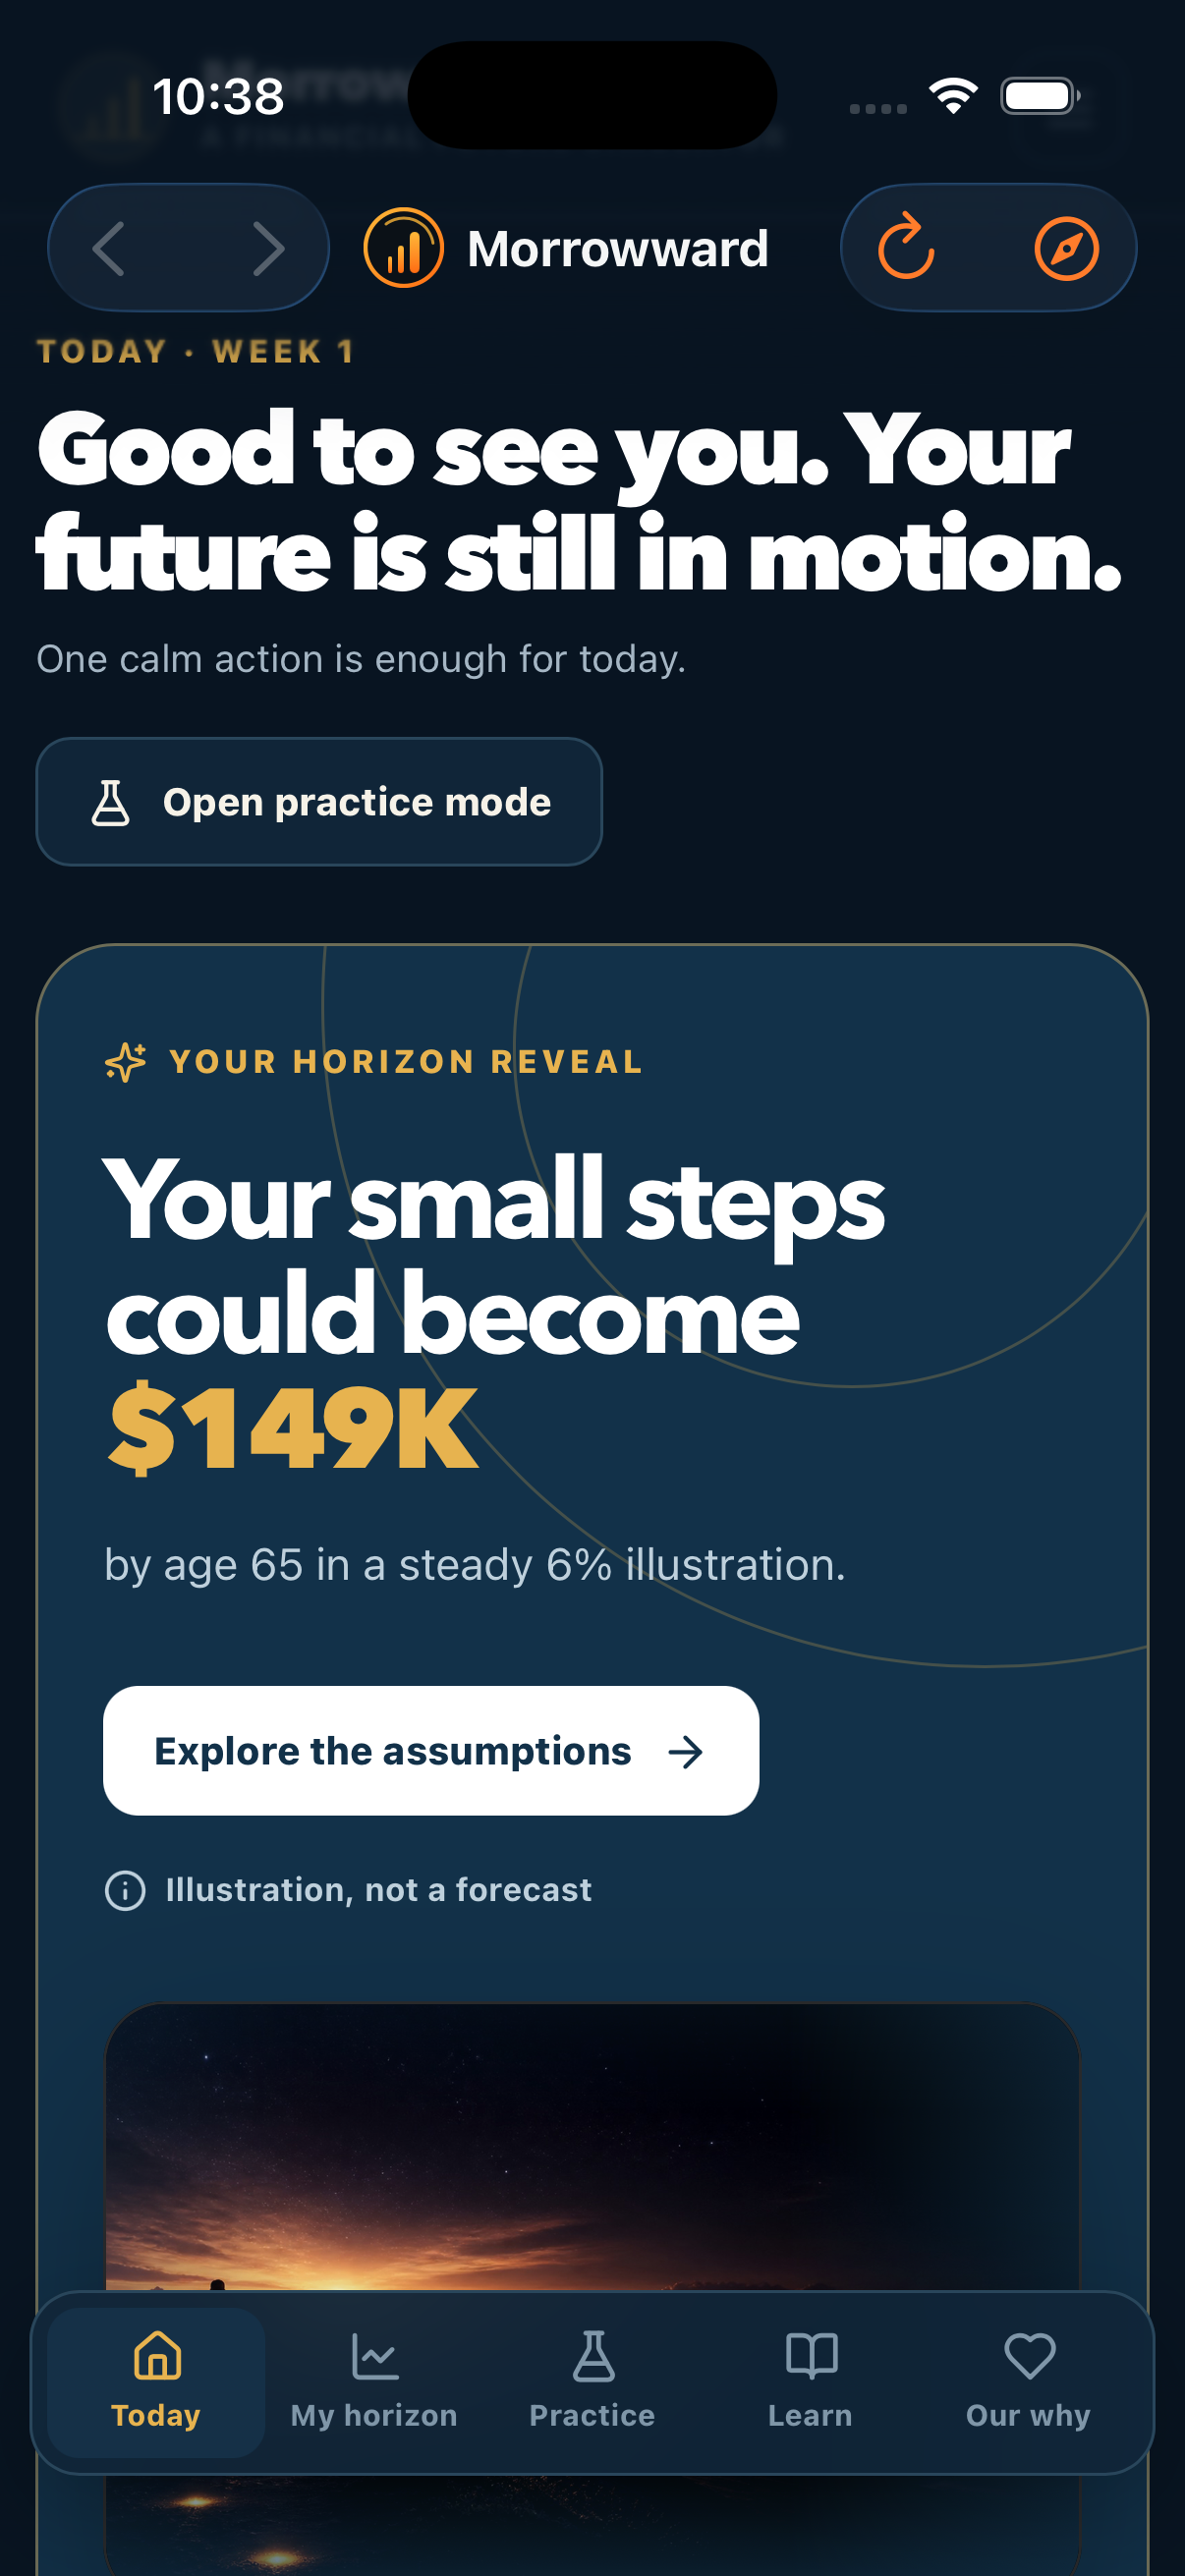
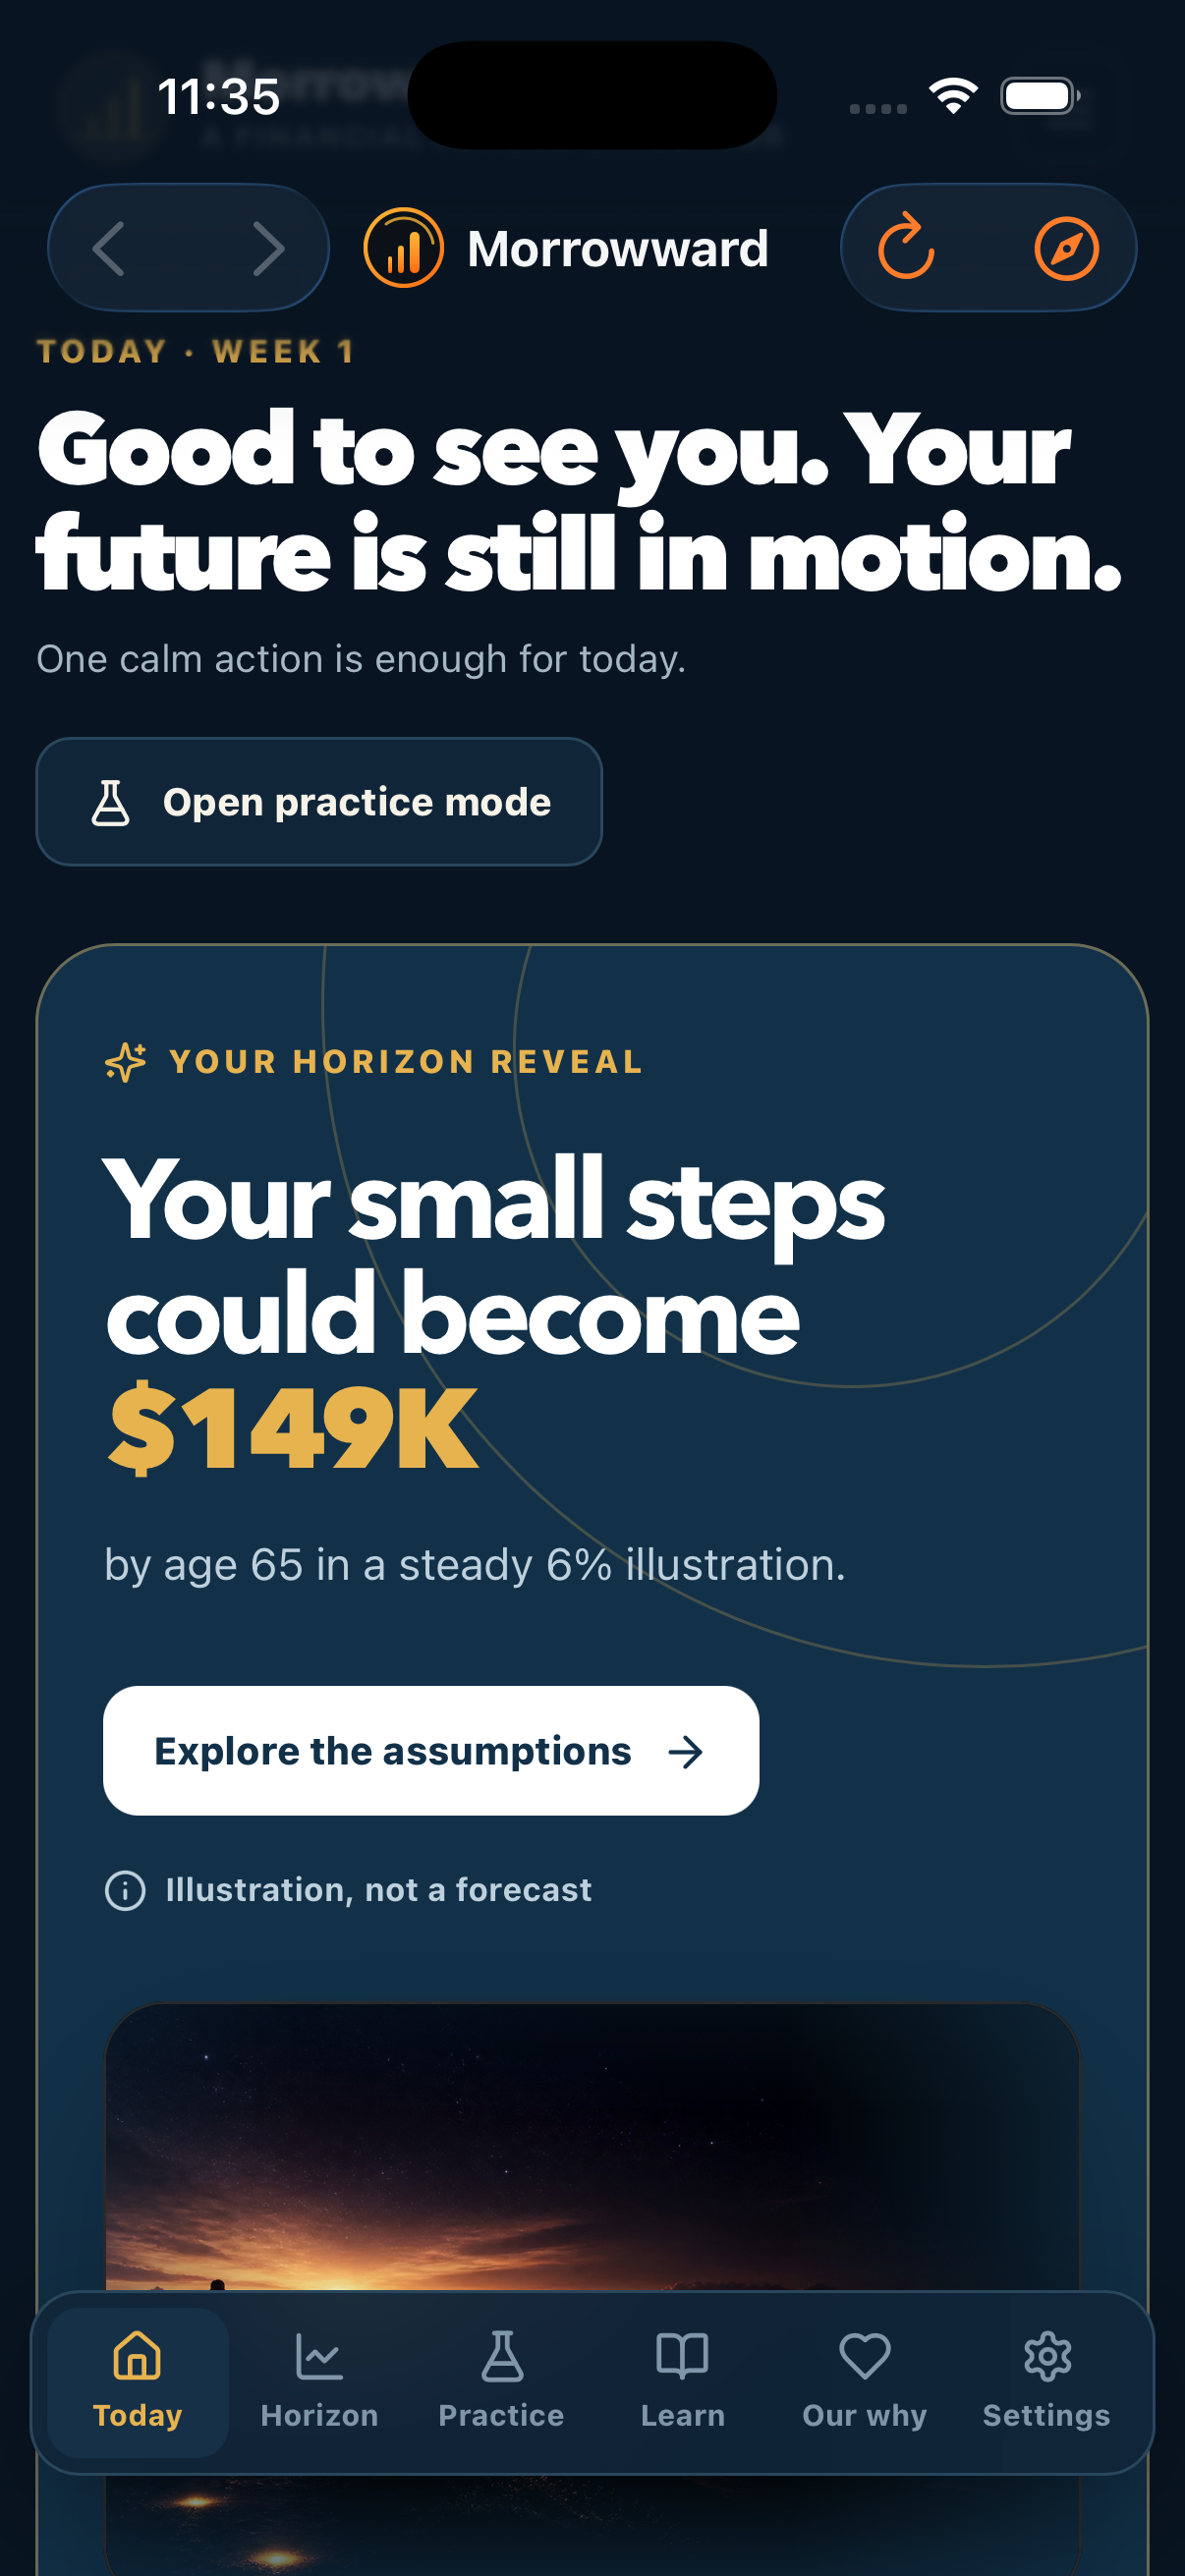
fix: polish companion access and privacy gate

diff --git a/apple/Apps/Mac/MorrowwardMacApp.swift b/apple/Apps/Mac/MorrowwardMacApp.swift
@@ -1,3 +1,4 @@
+import AppKit
 import SwiftUI
 
 @main
@@ -8,5 +9,41 @@ struct MorrowwardMacApp: App {
         }
         .defaultSize(width: 1320, height: 900)
         .windowResizability(.contentMinSize)
+        .commands {
+            CommandGroup(replacing: .appInfo) {
+                Button("About Morrowward") {
+                    showMorrowwardAboutPanel()
+                }
+            }
+        }
     }
+}
+
+@MainActor
+private func showMorrowwardAboutPanel() {
+    let paragraphStyle = NSMutableParagraphStyle()
+    paragraphStyle.alignment = .center
+
+    let mission = NSMutableAttributedString(
+        string: "Helping you move toward financial freedom through daily discipline and financial education.\n\n",
+        attributes: [
+            .font: NSFont.systemFont(ofSize: NSFont.systemFontSize),
+            .foregroundColor: NSColor.labelColor,
+            .paragraphStyle: paragraphStyle,
+        ]
+    )
+    mission.append(
+        NSAttributedString(
+            string: "Follow Dave online",
+            attributes: [
+                .font: NSFont.systemFont(ofSize: NSFont.systemFontSize, weight: .semibold),
+                .foregroundColor: NSColor.linkColor,
+                .link: URL(string: "https://thedavedev.com/")!,
+                .paragraphStyle: paragraphStyle,
+                .underlineStyle: NSUnderlineStyle.single.rawValue,
+            ]
+        )
+    )
+
+    NSApplication.shared.orderFrontStandardAboutPanel(options: [.credits: mission])
 }

diff --git a/tests/e2e/morrowward.spec.ts b/tests/e2e/morrowward.spec.ts
@@ -42,11 +42,7 @@ async function openSettings(page: Page) {
     await desktop.click();
     return;
   }
-  await page.getByRole("button", { name: "Open menu" }).click();
-  await page
-    .getByRole("navigation", { name: "Mobile menu" })
-    .getByRole("button", { name: /Settings/i })
-    .click();
+  await page.getByTestId("mobile-nav-settings").click();
 }
 
 async function onboard(

diff --git a/app/components/MorrowwardApp.tsx b/app/components/MorrowwardApp.tsx
@@ -2211,7 +2211,8 @@ function AppFooter({ onNavigate }: { onNavigate: (view: View) => void }) {
 function MobileNav({ active, onNavigate }: { active: View; onNavigate: (view: View) => void }) {
   return (
     <nav className="bottom-nav" aria-label="Mobile primary navigation">
-      {NAV_ITEMS.map((item) => { const Icon = item.icon; return <button data-testid={`mobile-nav-${item.id}`} key={item.id} type="button" className={active === item.id ? "active" : ""} onClick={() => onNavigate(item.id)} aria-current={active === item.id ? "page" : undefined}><Icon size={19} aria-hidden="true" /><span>{item.label}</span></button>; })}
+      {NAV_ITEMS.map((item) => { const Icon = item.icon; const label = item.id === "plan" ? "Horizon" : item.label; return <button data-testid={`mobile-nav-${item.id}`} key={item.id} type="button" className={active === item.id ? "active" : ""} onClick={() => onNavigate(item.id)} aria-current={active === item.id ? "page" : undefined}><Icon size={19} aria-hidden="true" /><span>{label}</span></button>; })}
+      <button data-testid="mobile-nav-settings" type="button" className={active === "settings" ? "active" : ""} onClick={() => onNavigate("settings")} aria-current={active === "settings" ? "page" : undefined}><Settings size={19} aria-hidden="true" /><span>Settings</span></button>
     </nav>
   );
 }

diff --git a/app/globals.css b/app/globals.css
@@ -1159,7 +1159,7 @@ textarea:focus-visible,
   .privacy-panel ul { grid-column: 2; }
   .app-footer { grid-template-columns: 1fr; padding-bottom: 105px; }
   .app-footer nav { grid-column: auto; }
-  .bottom-nav { position: fixed; z-index: 60; left: 10px; right: 10px; bottom: max(9px, env(safe-area-inset-bottom)); display: grid; grid-template-columns: repeat(5, 1fr); border: 1px solid var(--line); border-radius: 17px; padding: 5px; background: color-mix(in srgb, var(--surface) 94%, transparent); box-shadow: 0 12px 40px color-mix(in srgb, #000 30%, transparent); backdrop-filter: blur(18px); }
+  .bottom-nav { position: fixed; z-index: 60; left: 10px; right: 10px; bottom: max(9px, env(safe-area-inset-bottom)); display: grid; grid-template-columns: repeat(6, minmax(0, 1fr)); border: 1px solid var(--line); border-radius: 17px; padding: 5px; background: color-mix(in srgb, var(--surface) 94%, transparent); box-shadow: 0 12px 40px color-mix(in srgb, #000 30%, transparent); backdrop-filter: blur(18px); }
   .bottom-nav button { display: grid; justify-items: center; gap: 3px; border-radius: 11px; padding: 7px 3px; color: var(--faint); font-size: 10px; font-weight: 750; }
   .bottom-nav button.active { background: var(--surface-raised); color: var(--accent); }
 }

diff --git a/docs/BUILD_JOURNAL.md b/docs/BUILD_JOURNAL.md
@@ -381,6 +381,22 @@ The signoff marks **final feature development complete on July 17**. Codex then 
 
 That four-day arc is also the clearest summary of the human–agent loop captured by this journal. Dave supplied the mission, decades of investor lessons, taste, and final discernment; Codex delegated and implemented the architecture, safety boundaries, tests, content pipelines, deployment, and Apple portability; each real-product review became the next concrete refinement. The result is not merely “AI generated an app quickly.” It is inspectable evidence that sustained human judgment and agent execution can move from a deeply personal idea to a finished, accepted product in four days.
 
+### Hands-on companion use found one submission-blocking navigation defect
+
+Dave's first direct iPhone Simulator session found a real container-specific problem after feature-complete signoff: the companion's native navigation chrome could cover the responsive website header, making the hamburger route to Settings impractical. The Mac companion did not share the defect because its top Settings control remained visible.
+
+The fix stayed in the shared product instead of adding iPhone-only financial logic. Morrowward's fixed mobile footer now has a sixth, always-visible **Settings** destination with a gear icon; the adjacent plan label is shortened to **Horizon** at that width so all six destinations remain readable. Desktop navigation and the Mac experience are unchanged. The Playwright Settings helper now exercises the same footer route a mobile user takes, and the focused Pixel 7 golden path passed after switching the theme from the new destination. ESLint and the production web build also remained clean.
+
+Dave's Mac review produced a separate, platform-appropriate polish request rather than another navigation fix. The standard **About Morrowward** panel now keeps the app icon, name, and version while adding the concise mission line **Helping you move toward financial freedom through daily discipline and financial education.** and a clickable **Follow Dave online** link to `https://thedavedev.com/`. The ad-hoc signed universal Release build compiled successfully with Swift 6 strict concurrency.
+
+### Final privacy gate narrowed the deployment package
+
+Before reopening the companions, Dave asked for one final check that the project had not shipped machine-local details or credentials. Codex audited the current tree, ignored local files, every commit reachable from Git, the Apple project, tracked media metadata, the built Mac product, and the public browser bundle without printing suspected secret values.
+
+The review found no OpenAI, xAI, GitHub, AWS, JWT, private-key, or other credential signature; no committed `.env` value; no home-directory or temporary-machine path in Git history; no Apple development team or provisioning profile; and no identifying metadata pattern in the shipped media. Git history contains only Dave's intentional GitHub noreply identity. The intentional public story remains explicit rather than being mistaken for a leak: Dave's name, age-ten photograph, personal mission, public GitHub identity, and `thedavedev.com` link are product content he supplied for publication. A visual pass did flag two small, partially obscured background people in the original childhood photograph; whether to preserve the family photo intact or obscure those incidental figures remains an explicit pre-publication choice rather than an assumed consent decision.
+
+The first CLI publish attempt also exposed a release-process issue: archive mode ignored the intended local upload boundary and sent an oversized private source package containing local build dependencies and artifacts to Vercel's build service. Codex immediately replaced it with a clean 21 MB staging export assembled from tracked source plus the reviewed changes. Vercel received 199 files in a 19.5 MB archive, published deployment `dpl_7mwizQtDbSMibQm5dmTLnoDdyZti` at the unchanged `https://morrowward.vercel.app` alias, and the superseded oversized deployment was deleted. The stable public bundle contains the new mobile Settings control and no scanned secret or machine-path signature; `/api/v1/health` reports the expected configured GPT-5.6, durable quote store, and durable briefing store.
+
 ## July 18 — Submission package and recording
 
 - Finalize the Devpost description, README, screenshots, attribution, and three-minute demo path.

diff --git a/docs/SECURITY_AND_PRIVACY.md b/docs/SECURITY_AND_PRIVACY.md
@@ -43,6 +43,14 @@ Morrowward is an educational simulator. Its safest path is also its default path
 - The full development tree reports 12 transitive advisories (1 low, 4 moderate, 6 high, and 1 critical) in build/test tooling. npm's complete automatic remediation path requires breaking or out-of-range upgrades, so those upgrades are intentionally deferred to a dedicated post-hackathon dependency pass rather than forced into the release candidate.
 - The project therefore does not claim a vulnerability-free development toolchain; the verified statement is limited to the installed production dependency graph.
 
+## Final artifact audit — July 17, 2026
+
+- Current tracked source, ignored local files, every local/remote Git ref, and all commits reachable from the branch and release tag were scanned for common OpenAI, xAI, GitHub, AWS, JWT, and private-key signatures without printing candidate values. None were found.
+- `.env.example` contains empty or documented placeholder values only. No other `.env`, PEM, provisioning profile, or signing credential is tracked. Apple source and the ad-hoc signed Mac Release contain no development team, provisioning profile, API credential, home-directory path, or temporary-machine path.
+- Git commit metadata uses the intentional GitHub noreply identity `[email redacted]`. No home-directory path occurs anywhere in reachable Git history.
+- Tracked screenshots, image metadata, video metadata, captions, publication manifests, and representative frames from both welcome videos contain no personal contact details, browser profiles, notifications, machine-local paths, credentials, or private deployment identifiers. The only open visual decision is whether to retain or obscure two small, partially visible background people in Dave's deliberately published childhood photograph.
+- The public client bundle was checked separately and contains the new mobile Settings control with no scanned credential or machine-path signature. The oversized intermediate Vercel source deployment was replaced by a clean tracked-source package and deleted; the stable alias now points to the 199-file clean deployment.
+
 ## Operational checklist
 
 Before public launch:

diff --git a/docs/SUBMISSION_CHECKLIST.md b/docs/SUBMISSION_CHECKLIST.md
@@ -10,6 +10,8 @@
 - [ ] `disbitski/morrowward` is public with its full history and MIT license.
 - [x] Commit `74f77ad` passes a clean-clone `npm install`, 122 tests, lint, Grok dry run, vinext production build, and Vercel/Next production build using the README workflow.
 - [x] No credentials, personal portfolio data, or private reference folders appear in Git history.
+- [x] Final July 17 privacy gate covers the current tree, every local and remote Git ref, ignored local files, built Apple products, tracked-media metadata, representative video frames, and the public client bundle. It found no credential, private key, personal contact detail, machine-local path, signing team/profile, or private deployment identifier.
+- [ ] Confirm whether the small, partially obscured background people in Dave's intentionally published age-ten photograph should remain intact or be blurred/cropped before the repository becomes public.
 - [x] Demo seed state works without network access or live market conditions.
 - [x] API-offline and quote-offline fallbacks are verified.
 - [x] Daily GPT-5.6 quote batching, required web search, strict per-asset source/schema/time rejection, eleven-asset allowlist, durable snapshot/lock behavior, self-healing first load, bounded observation-only rechecks, freshness, and synthetic fallback are covered by the July 15 passing local suite.
@@ -27,6 +29,7 @@
 - [x] About page uses the polished three-card companion layout for **Morrowward for iPhone**, **Morrowward for Mac**, and **Follow Dave online**.
 - [x] The iPhone and Mac source cards link to their exact GitHub folders. They resolve now for repository-authorized collaborators and become publicly accessible at the same URLs when the repository is made public on July 20.
 - [x] **Follow Dave online** links to `https://thedavedev.com`.
+- [x] Native Mac **About Morrowward** keeps the standard icon/name/version, adds the concise financial-freedom mission line, and links **Follow Dave online** to `https://thedavedev.com/`.
 - [x] No App Store download badge or availability claim is used for companion builds distributed as source.
 - [x] Fresh `apple/` project contains shared SwiftUI/WebKit code plus separate iPhone and Mac entry points.
 - [x] Fresh generated app-icon assets, a reproducible icon generator, and branded loading/error/retry states exist in source.
@@ -42,6 +45,7 @@
 - [x] **Hackathon companion acceptance signed off July 17.** Dave accepted the finished end-user experience after using Production; Release build/launch, exact-origin policy, native unit coverage, and local-persistence journeys provide the intended lightweight-companion proof.
 - **N/A — explicitly waived as additional hackathon gates, not represented as tested:** forced native offline/retry recovery; native export and import panels; external-link handoff; historical video playback; warmed offline reload; and keyboard, Reduce Motion, and VoiceOver smoke checks. These remain worthwhile post-hackathon validation for any distributed release, but they are not blockers for the honest source-distributed SwiftUI/WebKit companion scope Dave accepted.
 - [x] Same-day demo setup complete: the verified iPhone Release build is installed and running in the booted iPhone 17 Pro Simulator; the verified ad-hoc signed Mac build is installed at `~/Applications/Morrowward.app` and running for Dave's hands-on use and recording.
+- [x] Post-signoff iPhone navigation fix is live: the fixed mobile footer exposes an always-visible Settings destination, the focused mobile golden path reaches Settings and changes theme through it, and the reopened Simulator visibly shows all six footer destinations.
 - [x] Root and Apple READMEs document the shared architecture, XcodeGen, local-server testing, Release origin, Simulator, unsigned and ad-hoc signed Mac verification, and optional physical-device signing.
 
 Earlier protected preview verified July 14: `https://morrowward-qui11xo7k-thedavedev.vercel.app`. Anonymous requests redirect to Vercel Authentication. Its health route reports GPT-5.6 configured, and its deployed GPT-5.6 educator response was verified. The July 15 market-milestone preview is recorded below. The stable production alias moved to public-but-unannounced integration testing on July 16; protected previews remain private.